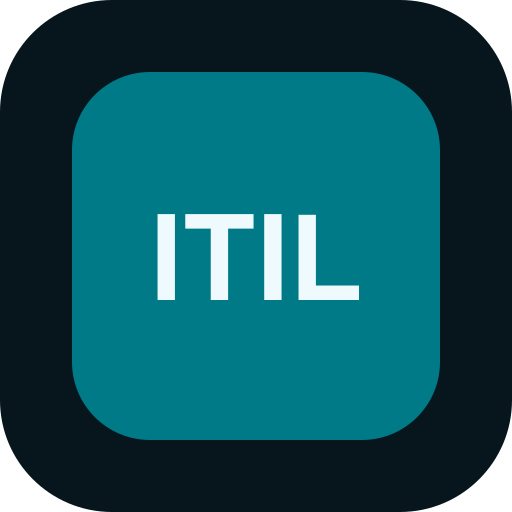
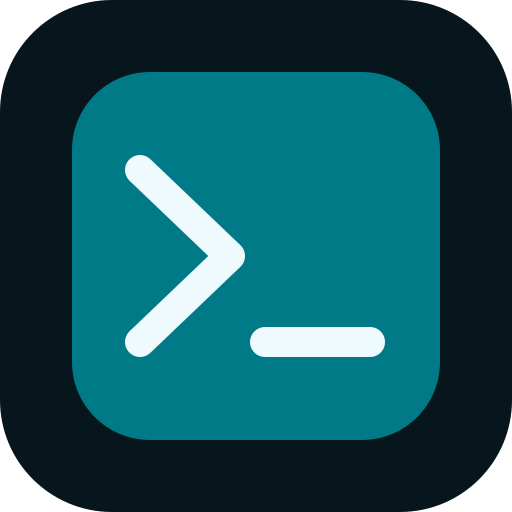
Adapter les icônes et aperçus à la formation Linux

Changed region(s): [[0.2188, 0.2812, 0.7188, 0.7188], [0.4688, 0.625, 0.75, 0.7188]]

diff --git a/site-content/quiz-template.html b/site-content/quiz-template.html
@@ -3,18 +3,18 @@
   <head>
     <meta charset="utf-8" />
     <meta name="viewport" content="width=device-width,initial-scale=1" />
-    <meta name="description" content="Quiz de 20 questions — Découverte ITIL" />
-    <title>Quiz — Découverte ITIL</title>
+    <meta name="description" content="Quiz de 20 questions — Linux — Initiation" />
+    <title>Quiz — Linux — Initiation</title>
     <link rel="stylesheet" href="../../assets/quiz/quiz.css" />
     <script defer src="../../assets/quiz/quiz-banks.js"></script>
     <script defer src="../../assets/quiz/quiz-engine.js"></script>
   </head>
   <body>
-    <main class="quiz-shell" data-quiz="01-introduction-itil">
+    <main class="quiz-shell" data-quiz="01-comprendre-linux">
       <nav class="quiz-topbar" aria-label="Navigation du quiz">
-        <a class="quiz-back" id="chapter-link" href="../01-introduction-itil"
+        <a class="quiz-back" id="chapter-link" href="../01-comprendre-linux"
           >← Retour au chapitre</a
-        ><span class="quiz-brand">Découverte ITIL</span>
+        ><span class="quiz-brand">Linux — Initiation</span>
       </nav>
       <header class="quiz-hero">
         <span class="quiz-kicker" id="quiz-kicker"></span>
@@ -61,7 +61,7 @@
         </div>
         <div class="result-actions">
           <button class="primary-button" id="restart-quiz" type="button">Recommencer</button
-          ><a class="secondary-button" id="result-course-link" href="../01-introduction-itil"
+          ><a class="secondary-button" id="result-course-link" href="../01-comprendre-linux"
             >Revoir le chapitre</a
           >
         </div>
